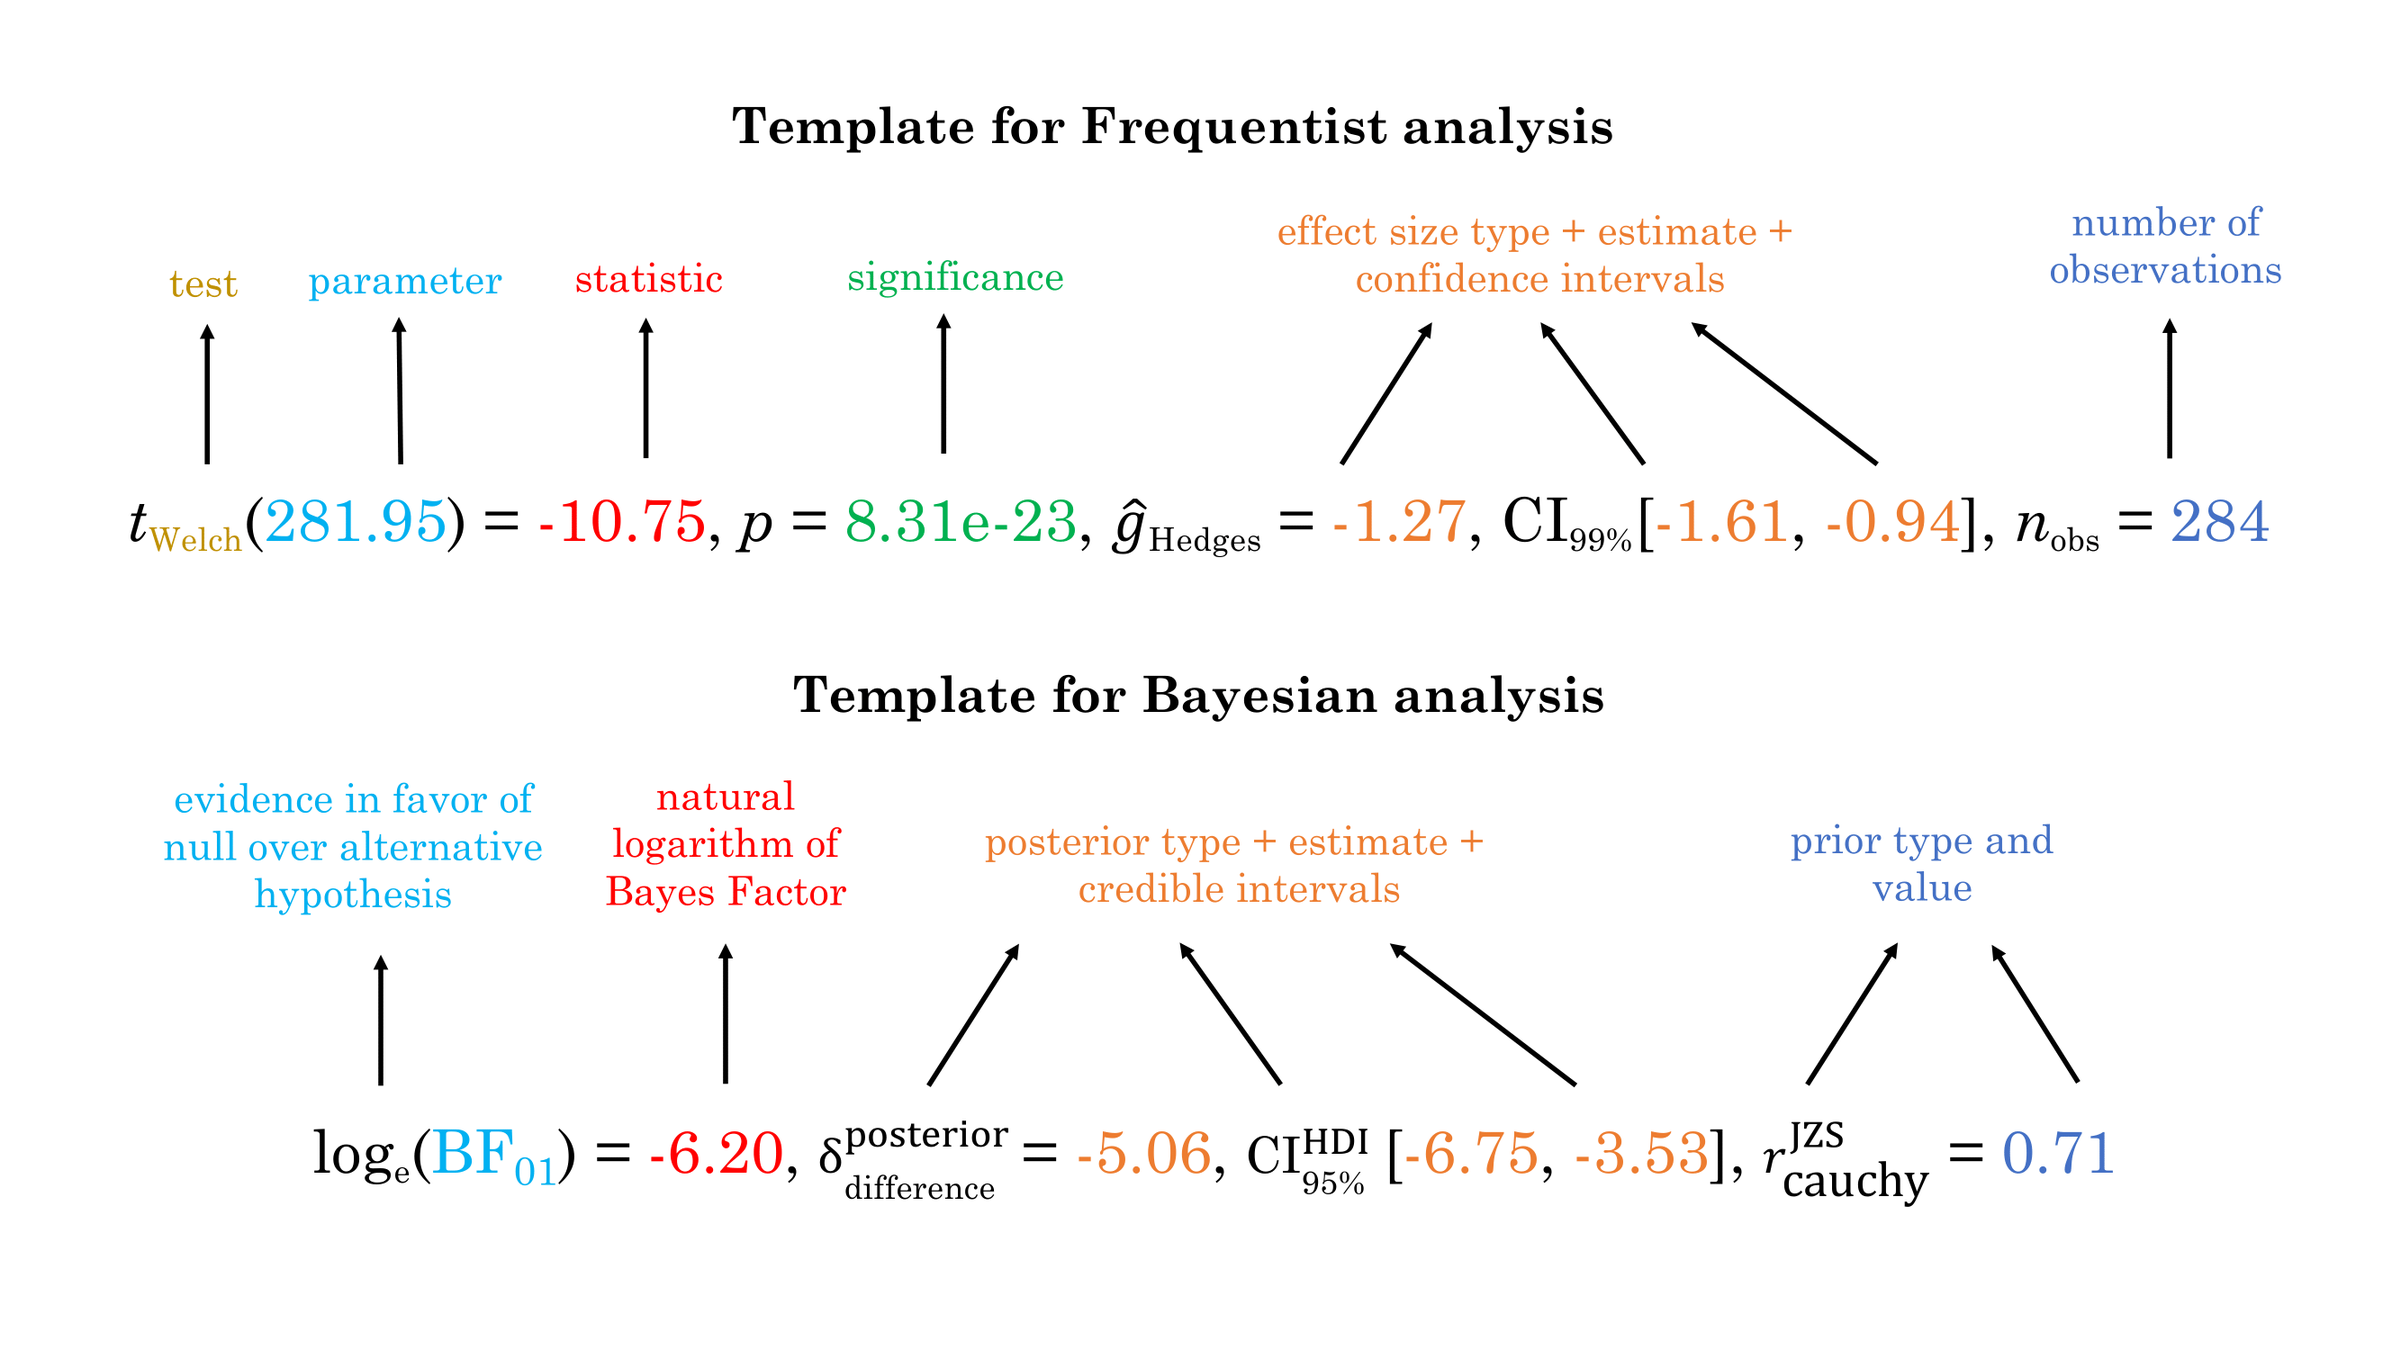
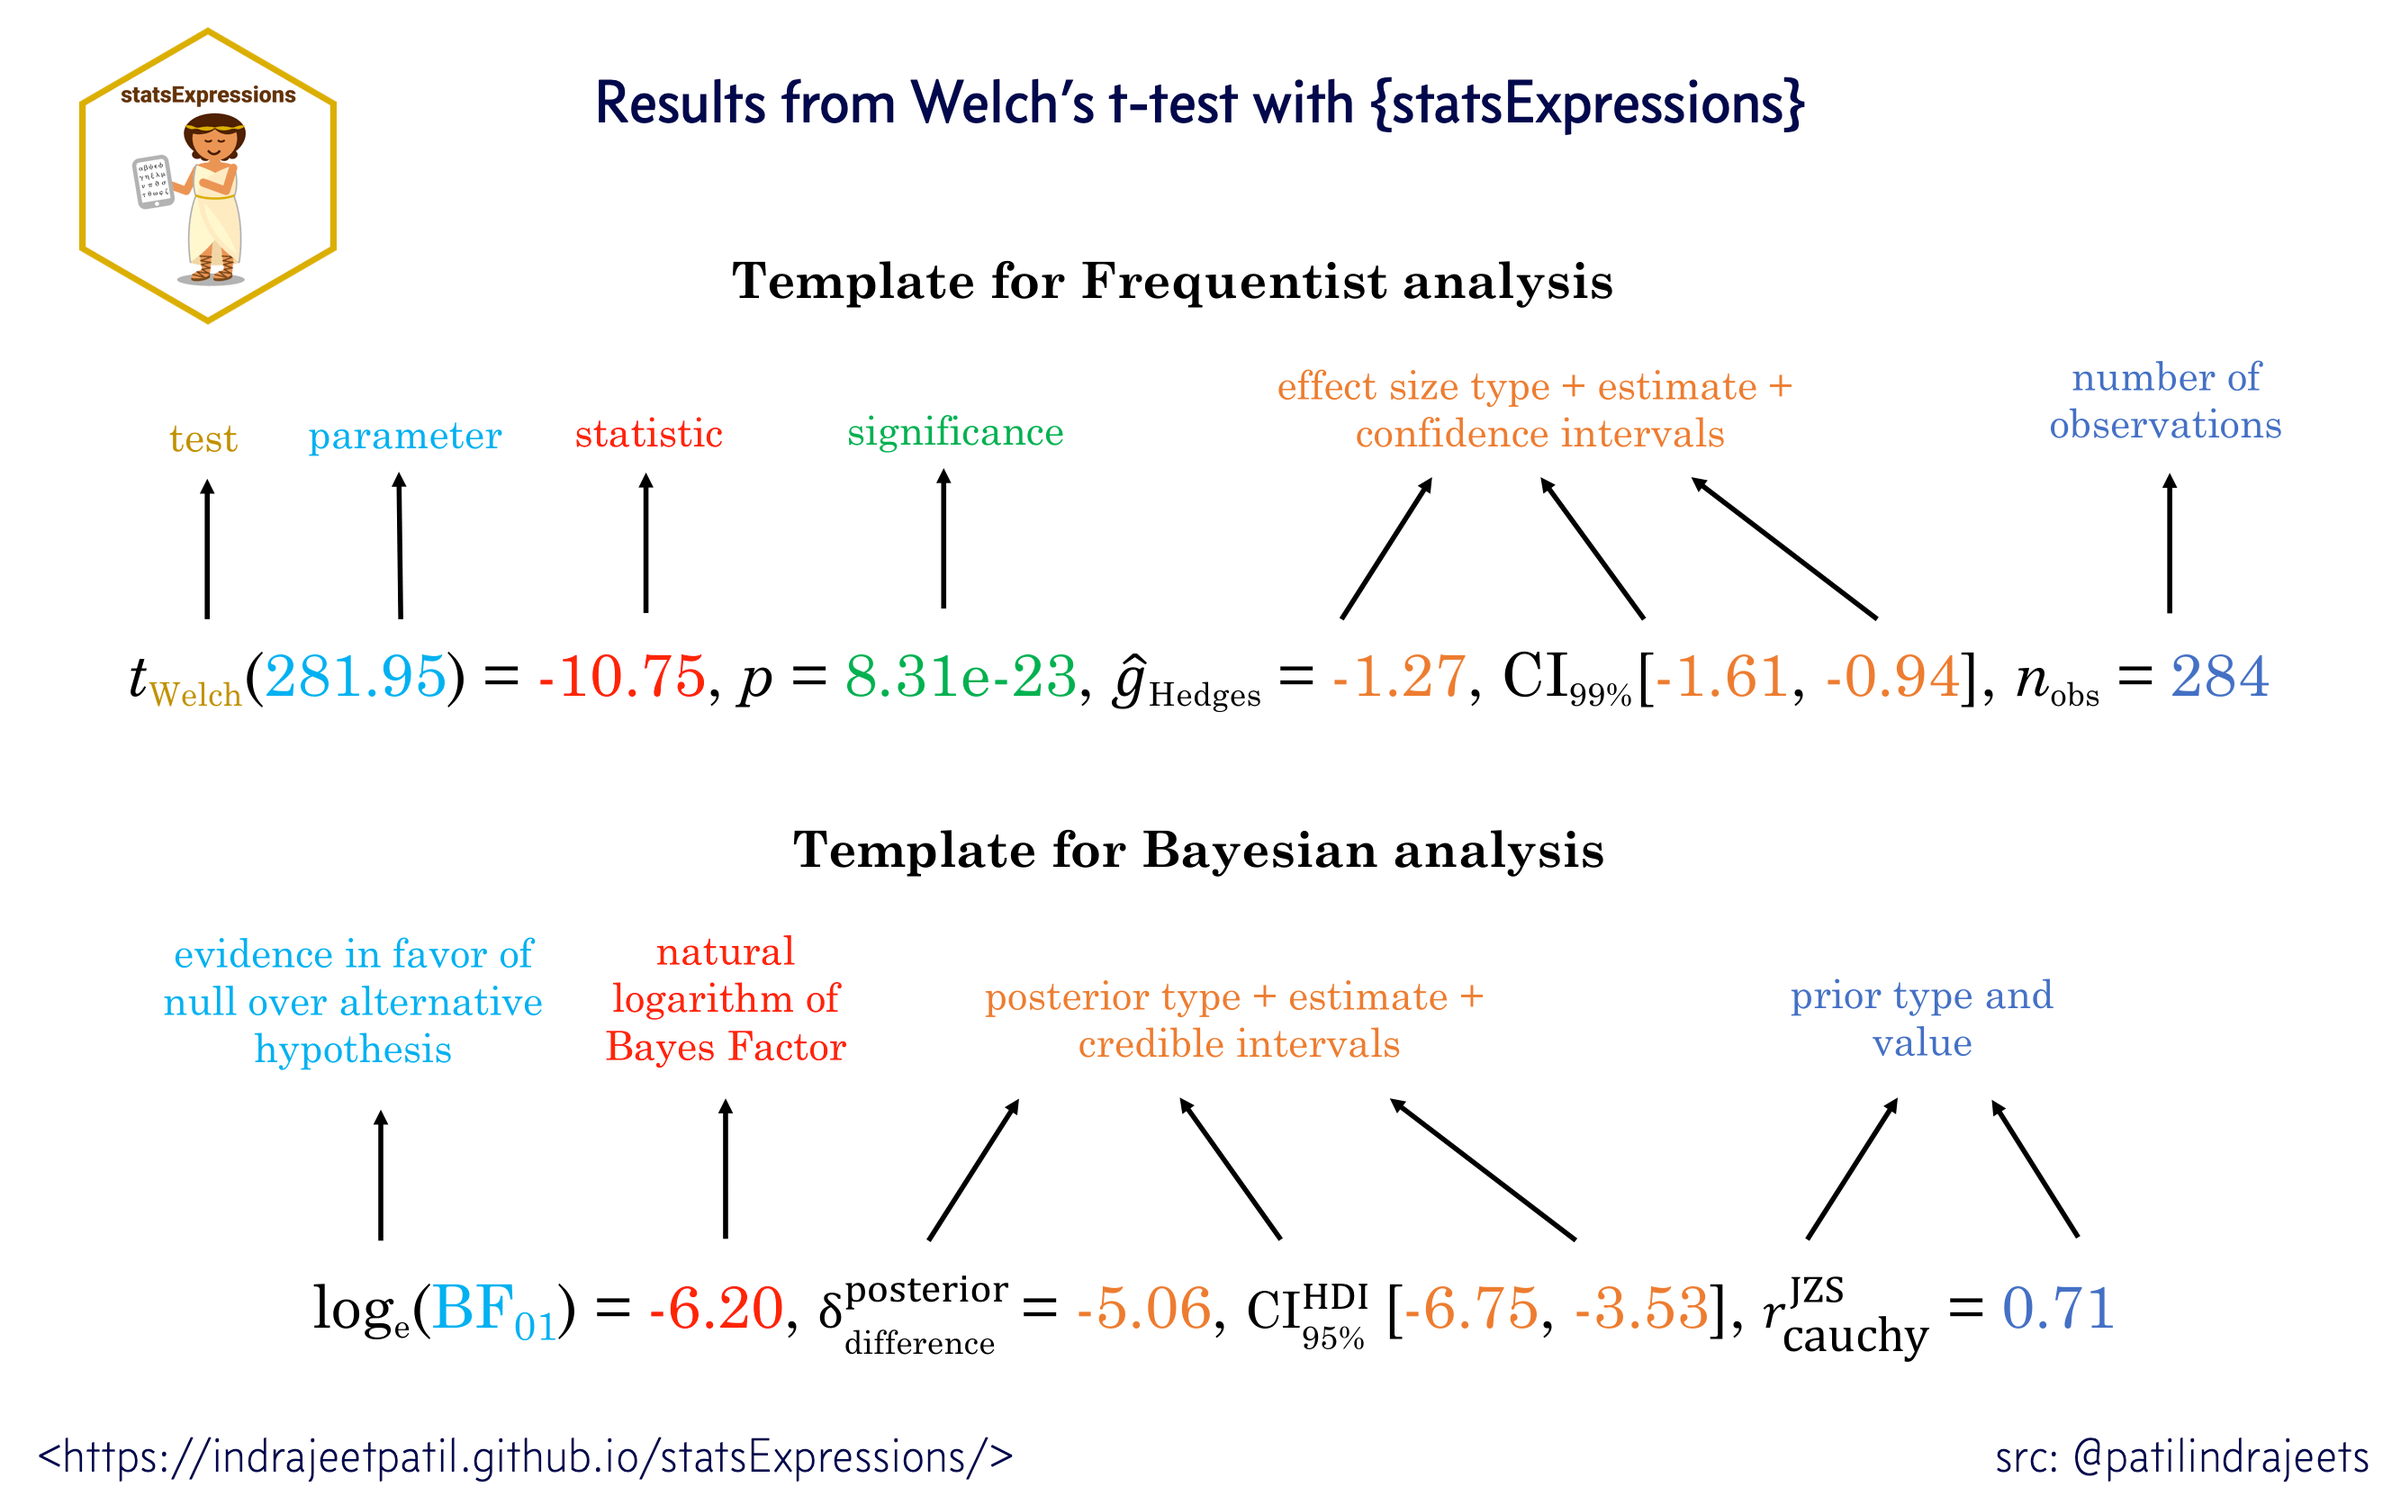
add social media meta tags

diff --git a/README.md b/README.md
@@ -72,7 +72,7 @@ A BibTeX entry for LaTeX users is
 
 # General Workflow
 
-<img src="man/figures/schematic_illustration.png" width="100%" />
+<img src="man/figures/card.png" width="100%" />
 
 # Summary of types of statistical analyses
 
